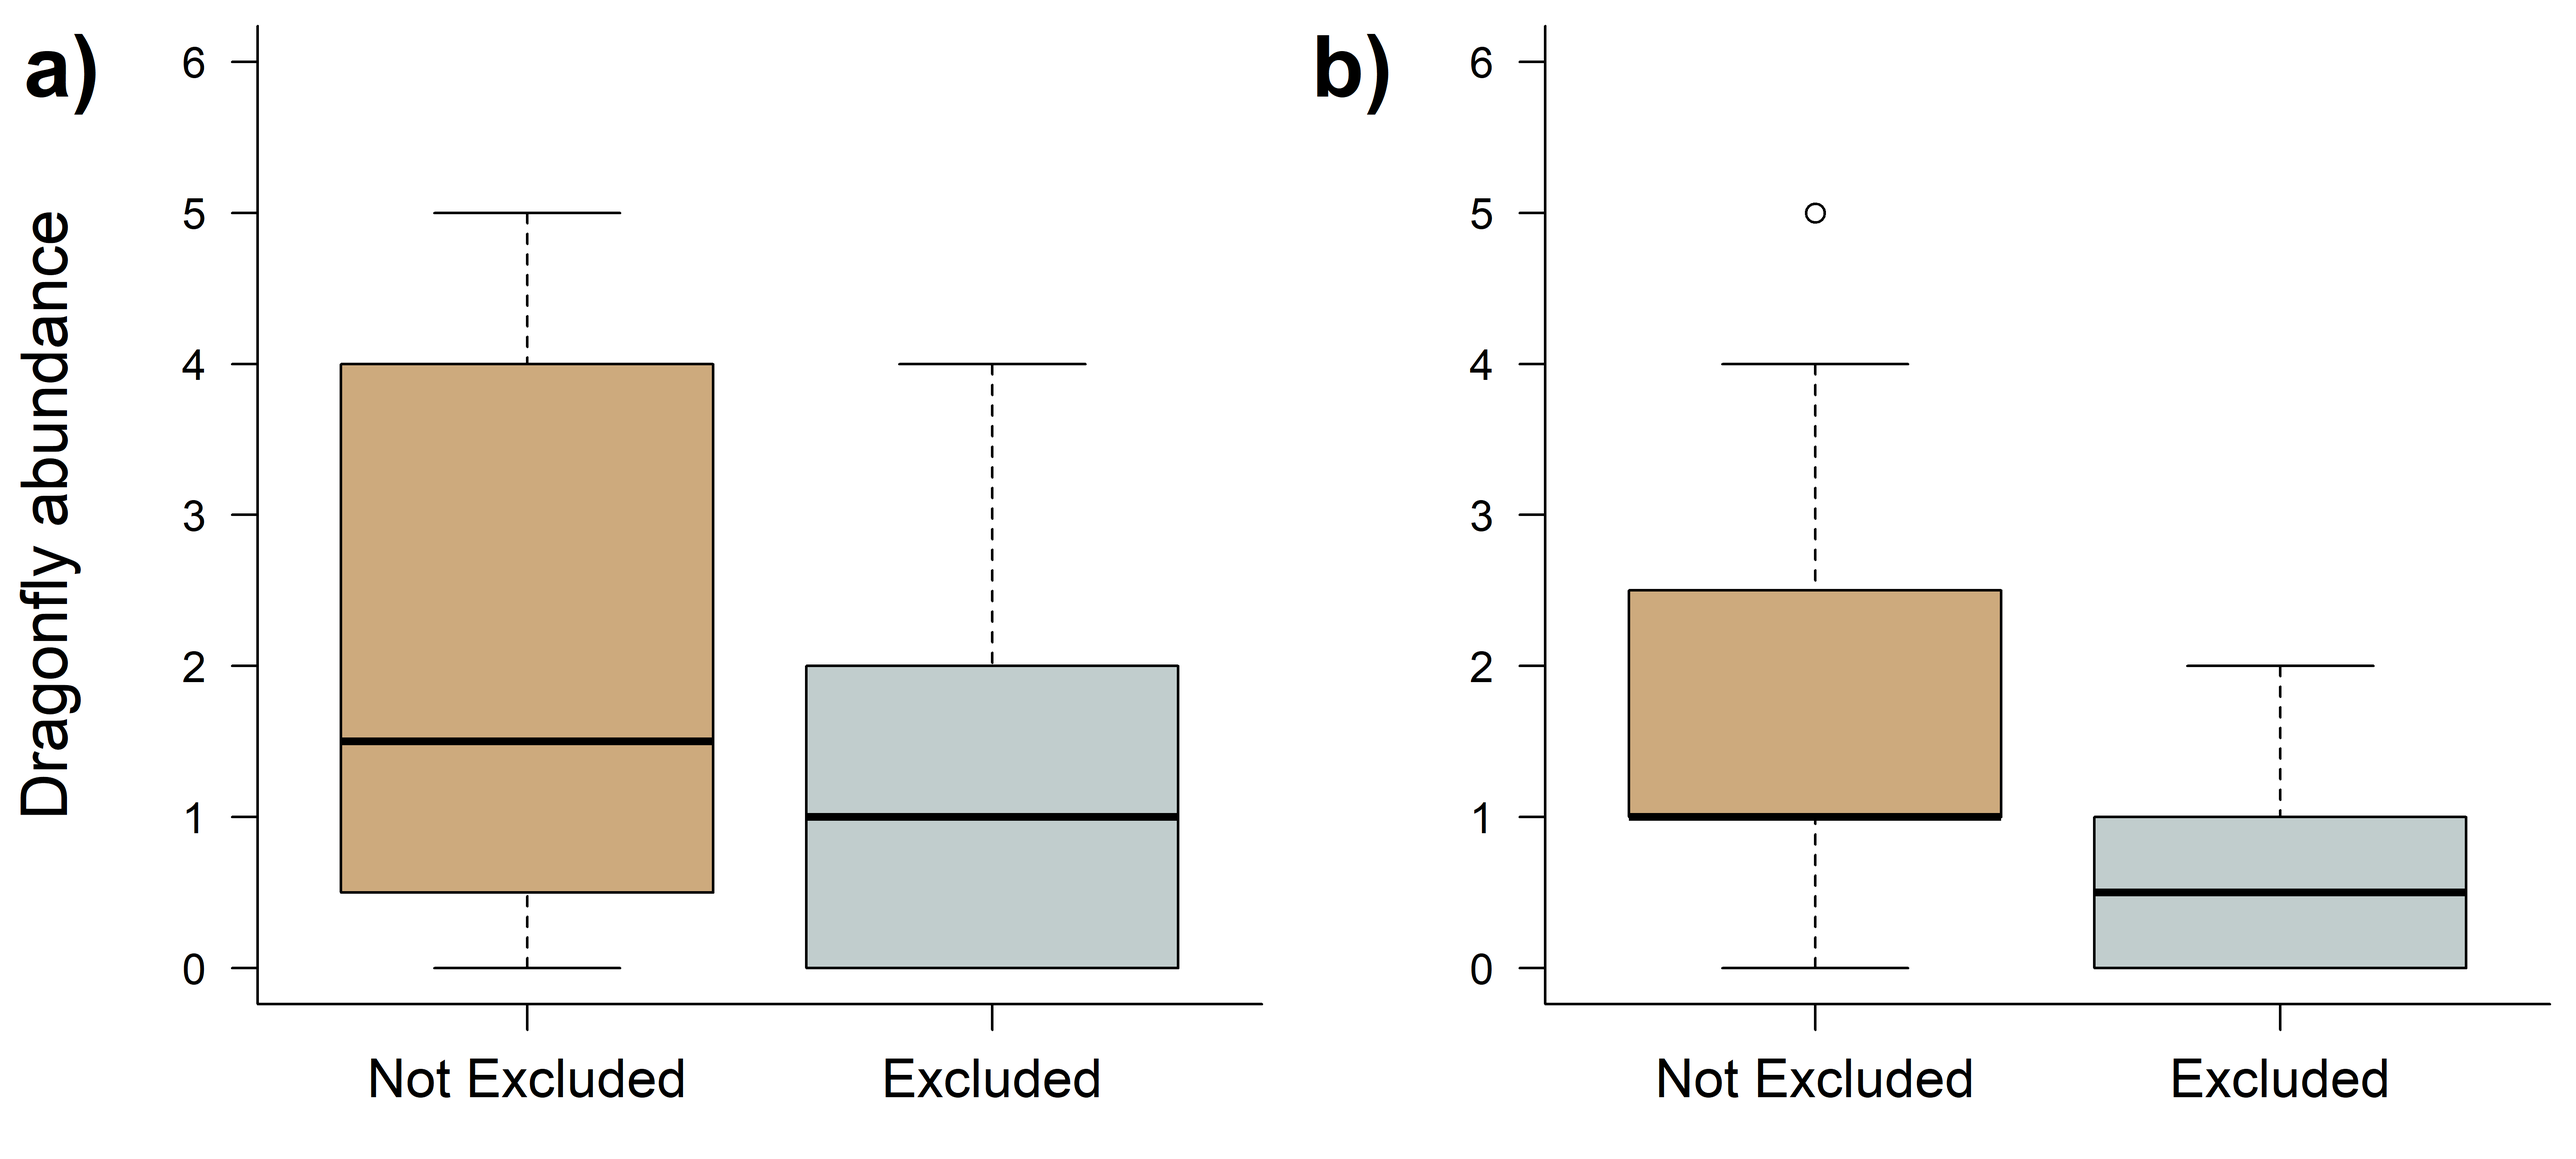
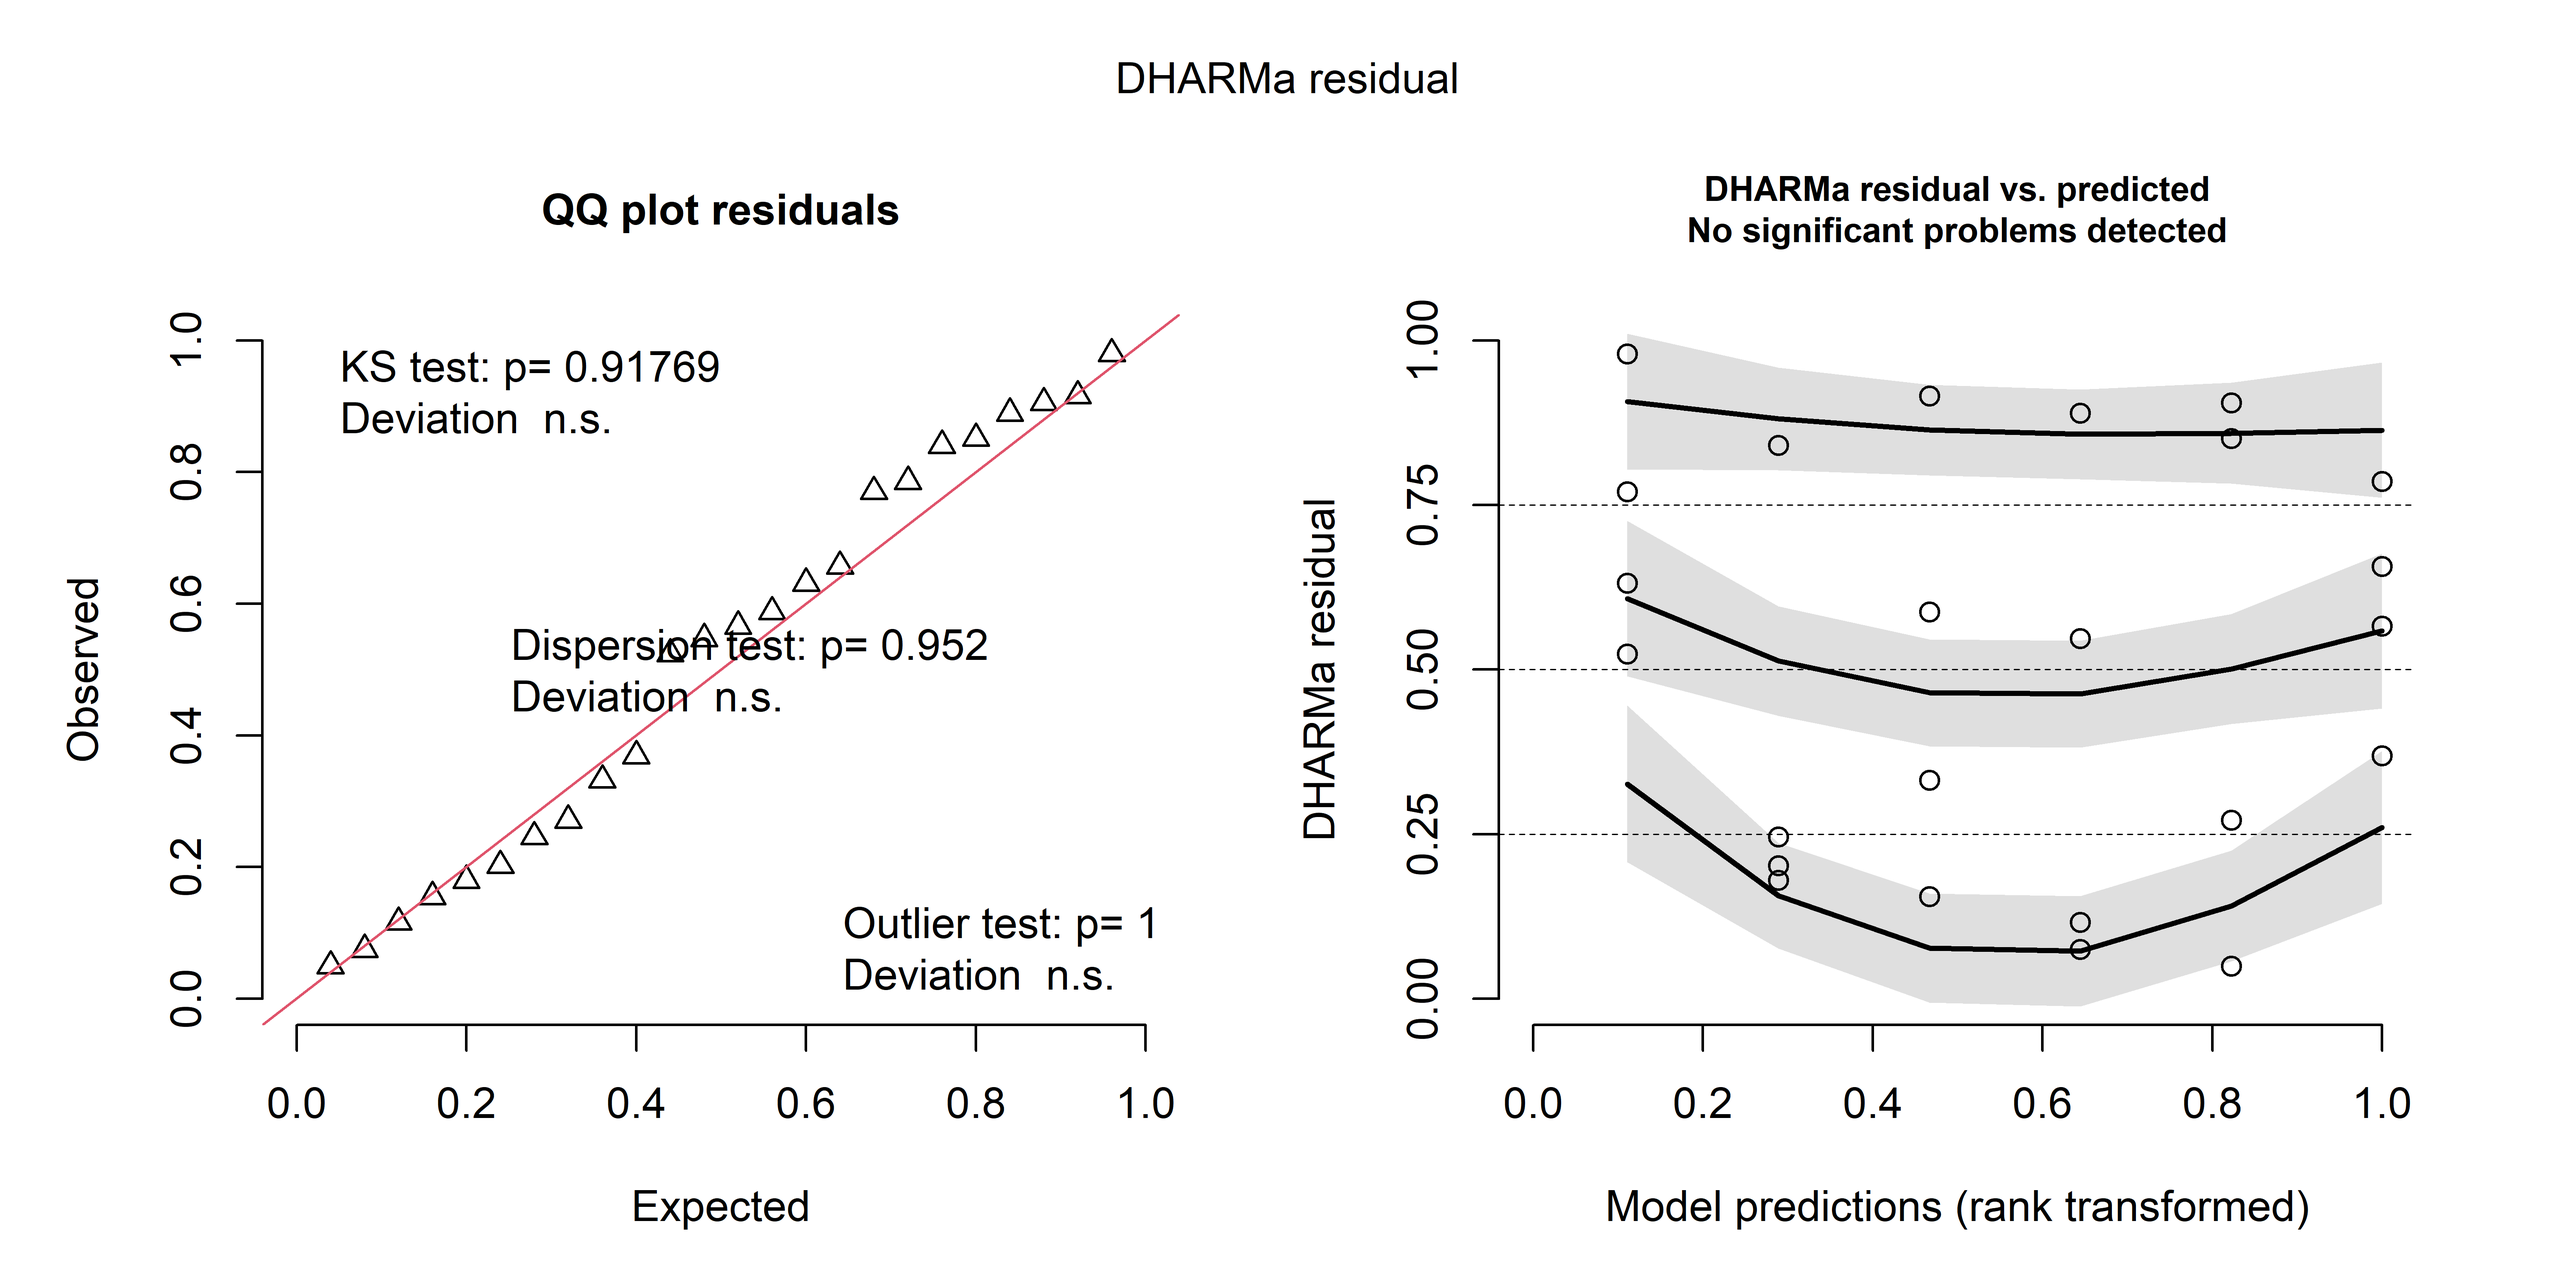
Adding averages

diff --git a/Markdowns/amphibian_dragonfly_exclusion_test.md b/Markdowns/amphibian_dragonfly_exclusion_test.md
@@ -149,6 +149,36 @@ text("b)", x = -2, y = 95, cex = 2, font = 2, adj = c(0,0))
 #dev.off()
 ```
 
+``` r
+means_AM1 <- tapply(amphibians_AM1, INDEX = Exp_design_exc_atr$exclusao_anfibio, FUN = mean)
+means_AM1
+```
+
+    ##      nao      sim 
+    ## 65.25000 17.91667
+
+``` r
+1 - (means_AM1[2] / means_AM1[1])
+```
+
+    ##       sim 
+    ## 0.7254151
+
+``` r
+means_AM2 <- tapply(amphibians_AM2, INDEX = Exp_design_exc_atr$exclusao_anfibio, FUN = mean)
+means_AM2
+```
+
+    ##       nao       sim 
+    ## 39.416667  7.083333
+
+``` r
+1 - (means_AM2[2] / means_AM2[1])
+```
+
+    ##      sim 
+    ## 0.820296
+
 # Analysis of draggonfly exclusion
 
 Here we built models for the second (80-day) and third (116 day) surveys
@@ -261,7 +291,7 @@ mod_exc_lib_AM2_1 <- glmmTMB::glmmTMB(dragonfly_AM2 ~ exclusao_libelula + block2
 plot(simulateResiduals(mod_exc_lib_AM2_1))
 ```
 
-![](amphibian_dragonfly_exclusion_test_files/figure-gfm/unnamed-chunk-11-1.png)<!-- -->
+![](amphibian_dragonfly_exclusion_test_files/figure-gfm/unnamed-chunk-12-1.png)<!-- -->
 
 ``` r
 anova(mod_exc_lib_AM2_0,mod_exc_lib_AM2_1)
@@ -283,7 +313,7 @@ mod_exc_lib_AM3_1 <- glmmTMB::glmmTMB(dragonfly_AM3 ~ exclusao_libelula + block2
 plot(simulateResiduals(mod_exc_lib_AM2_1))
 ```
 
-![](amphibian_dragonfly_exclusion_test_files/figure-gfm/unnamed-chunk-12-1.png)<!-- -->
+![](amphibian_dragonfly_exclusion_test_files/figure-gfm/unnamed-chunk-13-1.png)<!-- -->
 
 ``` r
 anova(mod_exc_lib_AM3_0,mod_exc_lib_AM3_1)
@@ -323,8 +353,38 @@ plot(NA, ylim = c(0,100), xlim = c(0,100), xaxt = "n", yaxt = "n")
 text("b)", x = -2, y = 95, cex = 2, font = 2, adj = c(0,0))
 ```
 
-![](amphibian_dragonfly_exclusion_test_files/figure-gfm/unnamed-chunk-13-1.png)<!-- -->
+![](amphibian_dragonfly_exclusion_test_files/figure-gfm/unnamed-chunk-14-1.png)<!-- -->
 
 ``` r
 #dev.off()
 ```
+
+``` r
+means_AM2 <- tapply(dragonfly_AM2, INDEX = Exp_design_exc_atr$exclusao_libelula, FUN = mean)
+means_AM2
+```
+
+    ##      nao      sim 
+    ## 2.166667 1.333333
+
+``` r
+1 - (means_AM2[2] / means_AM2[1])
+```
+
+    ##       sim 
+    ## 0.3846154
+
+``` r
+means_AM3 <- tapply(dragonfly_AM3, INDEX = Exp_design_exc_atr$exclusao_libelula, FUN = mean)
+means_AM3
+```
+
+    ##       nao       sim 
+    ## 1.7500000 0.5833333
+
+``` r
+1 - (means_AM3[2] / means_AM3[1])
+```
+
+    ##       sim 
+    ## 0.6666667
